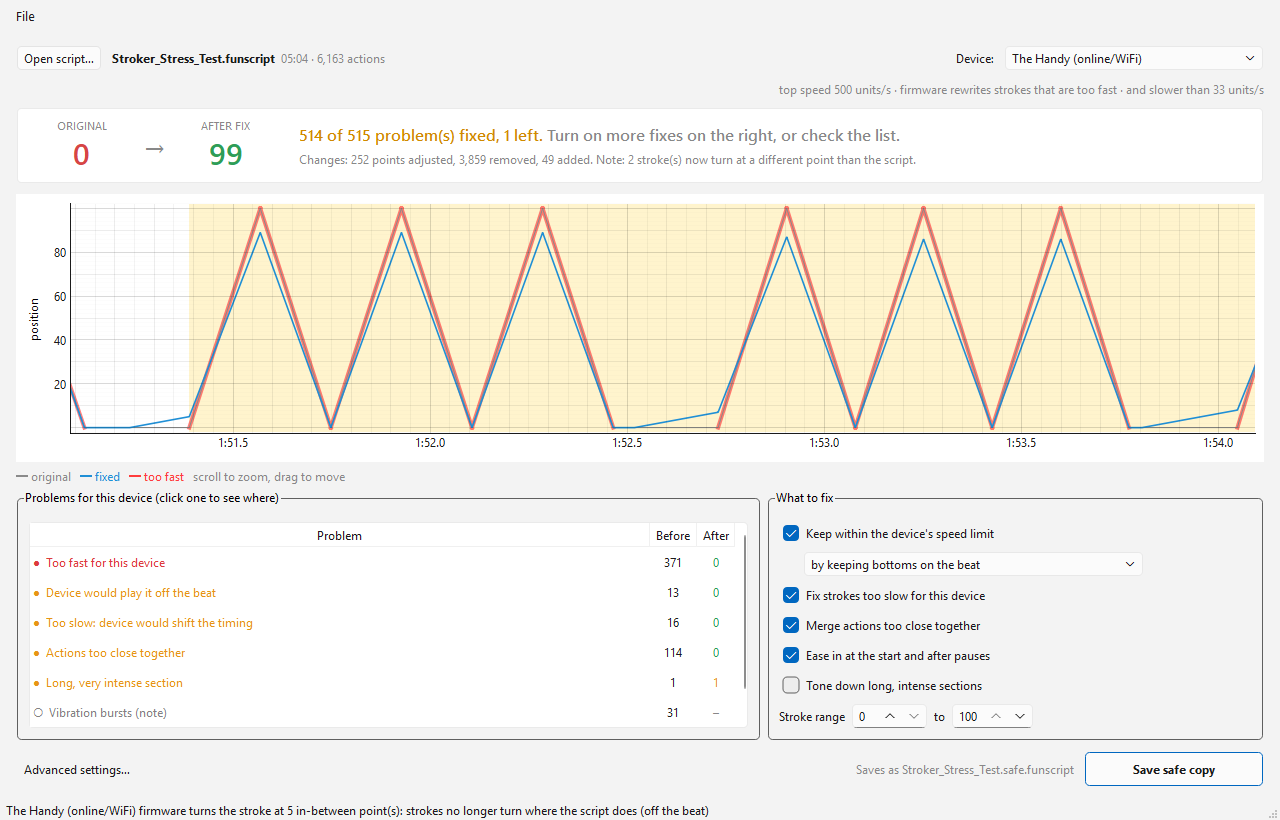
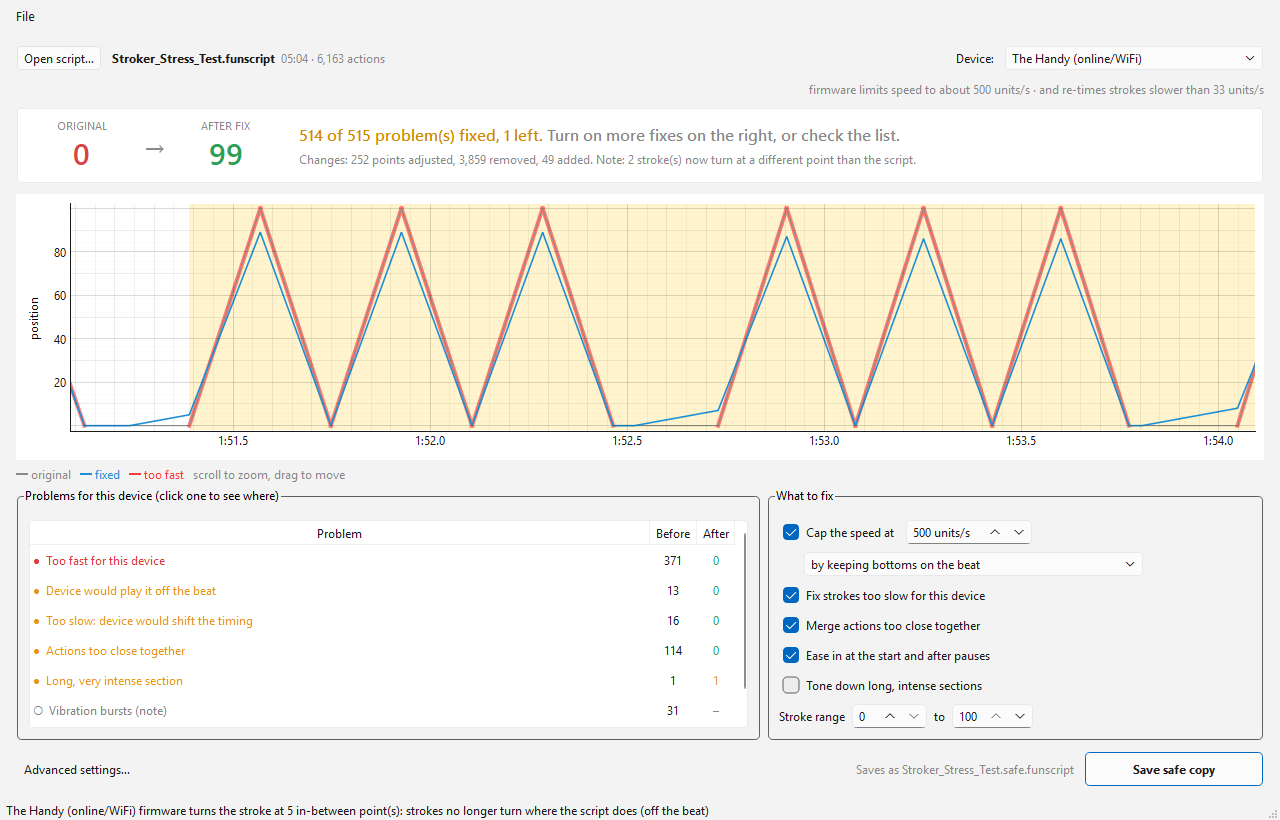
Handy-matched, user-defined speed cap for OSR2/SR6/SSR1; single-axis scope
- OSR2/SR6 and SSR1 default to a 500 u/s cap matched to the well-tested
  Handy, recorded as limit_source="handy_matched"
- GUI: "Cap the speed at ..." spinner lets users set their own cap;
  device line explains firmware vs. self-defined limits
- Multi-axis files open with a single-axis-only warning
- README: scope (single axis, PRs welcome), profile table, roadmap
  trimmed (no measuring, multi-axis, video or live preview; Handy
  firmware tracking linked to the official change logs); screenshots
  recaptured

diff --git a/script_safety/gui/main_window.py b/script_safety/gui/main_window.py
@@ -210,8 +210,18 @@ class FixPanel(QGroupBox):
             c.toggled.connect(lambda v, f=field: self._set(f, v))
             return c
 
-        self.speed = check("speed_limit", "Keep within the device's speed limit",
-                           "Shortens strokes that are faster than the device can move.")
+        self.speed = check("speed_limit", "Cap the speed at",
+                           "Shortens strokes that are faster than the cap. On devices without a firmware limit "
+                           "(OSR2 / SR6 / SSR1) this cap is the only thing protecting you.")
+        self.profile_max = 500.0
+        self.cap = QSpinBox()
+        self.cap.setRange(50, 2000)
+        self.cap.setSingleStep(10)
+        self.cap.setSuffix(" units/s")
+        self.cap.setKeyboardTracking(False)
+        self.cap.setToolTip("Your own speed limit. The default for OSR2 / SR6 / SSR1 matches the Handy (online), "
+                            "whose 500 units/s limit is well tested. Lower is gentler.")
+        self.cap.valueChanged.connect(self._cap_changed)
         self.profile_mode = "preserve_anchor"
         self.anchor = QComboBox()
         for text, data in (("by keeping bottoms on the beat", ("preserve_anchor", "bottom")),
@@ -243,11 +253,15 @@ class FixPanel(QGroupBox):
         rng.addWidget(self.hi)
         rng.addStretch(1)
 
+        cap_row = QHBoxLayout()
+        cap_row.addWidget(self.speed)
+        cap_row.addWidget(self.cap)
+        cap_row.addStretch(1)
         indent = QHBoxLayout()
         indent.addSpacing(24)
         indent.addWidget(self.anchor)
         indent.addStretch(1)
-        g.addWidget(self.speed, 0, 0)
+        g.addLayout(cap_row, 0, 0)
         g.addLayout(indent, 1, 0)
         g.setContentsMargins(10, 14, 10, 10)
         for row, w in enumerate((self.slow, self.interval, self.ease, self.calm), start=2):
@@ -265,6 +279,10 @@ class FixPanel(QGroupBox):
         if any(getattr(opts, k) != v for k, v in changes.items()):
             self.options.set_options(dataclasses.replace(opts, **changes))
 
+    def _cap_changed(self, value):
+        # Equal to the device default -> store "profile default", so switching devices follows each default.
+        self._set("max_speed", None if value == round(self.profile_max) else float(value))
+
     def _limiter_chosen(self, *_):
         mode, anchor = self.anchor.currentData()
         # Store "profile default" when the choice matches the device's own default, so switching
@@ -276,7 +294,8 @@ class FixPanel(QGroupBox):
 
     def sync(self) -> None:
         o = self.options.options()
-        widgets = (self.speed, self.slow, self.interval, self.ease, self.calm, self.anchor, self.lo, self.hi)
+        widgets = (self.speed, self.cap, self.slow, self.interval, self.ease, self.calm, self.anchor, self.lo,
+                   self.hi)
         for w in widgets:
             w.blockSignals(True)
         self.speed.setChecked(o.speed_limit)
@@ -289,6 +308,8 @@ class FixPanel(QGroupBox):
         self.anchor.setCurrentIndex(max(0, next((i for i in range(self.anchor.count())
                                                  if self.anchor.itemData(i) == want), 0)))
         self.anchor.setEnabled(o.speed_limit)
+        self.cap.setValue(round(o.max_speed or self.profile_max))
+        self.cap.setEnabled(o.speed_limit)
         self.lo.setMaximum(int(o.range_max) - 1)
         self.hi.setMinimum(int(o.range_min) + 1)
         self.lo.setValue(int(o.range_min))
@@ -299,6 +320,7 @@ class FixPanel(QGroupBox):
     def set_profile(self, p: DeviceProfile) -> None:
         self.slow.setVisible(p.min_speed > 0)
         self.profile_mode = p.speed_limit_mode
+        self.profile_max = p.max_speed
         self.sync()
 
 
@@ -543,13 +565,19 @@ class MainWindow(QMainWindow):
         if not self.profiles:
             return
         p = self.profile
-        bits = [f"top speed {p.max_speed:.0f} units/s"]
         if p.firmware_limiter:
-            bits.append("firmware rewrites strokes that are too fast")
-        if p.min_speed:
-            bits.append(f"and slower than {p.min_speed:.0f} units/s")
-        if not p.verified:
-            bits.append("these numbers are estimates")
+            bits = [f"firmware limits speed to about {p.max_speed:.0f} units/s"]
+            if p.min_speed:
+                bits.append(f"and re-times strokes slower than {p.min_speed:.0f} units/s")
+        elif p.limit_source == "handy_matched":
+            bits = ["no firmware speed limit: plays every move at full speed",
+                    f"default cap {p.max_speed:.0f} units/s, matched to the Handy (set your own below)"]
+        else:
+            bits = [f"speed limit {p.max_speed:.0f} units/s"]
+        if p.limit_source == "estimate":
+            bits.append("numbers are estimates")
+        elif p.limit_source == "custom":
+            bits.append("your custom profile")
         self.profile_label.setText(" · ".join(bits))
         self.profile_label.setToolTip(p.notes)
         self.fix_panel.set_profile(p)
@@ -572,7 +600,9 @@ class MainWindow(QMainWindow):
         self._fresh_load = True
         self._jump_index.clear()
         p = script.path
-        axis = "" if script.axis == "L0" else f" · {script.axis} axis"
+        axis = "" if script.axis == "L0" else (
+            f" · <span style='color:{OK}'>⚠ {script.axis} axis: this app is built for single-axis (stroke) "
+            f"scripts only</span>")
         self.file_label.setText(f"<b>{p.name}</b> &nbsp;<span style='color:#888'>{_ts(script.duration_ms)[:5]} · "
                                 f"{len(script.actions):,} actions{axis}</span>")
         self.file_label.setToolTip(str(p))

diff --git a/script_safety/profiles.py b/script_safety/profiles.py
@@ -12,6 +12,7 @@ from dataclasses import asdict, dataclass, fields
 from pathlib import Path
 
 SPEED_LIMIT_MODES = ("preserve_anchor", "shorten_start", "shorten_center")
+LIMIT_SOURCES = ("observed", "handy_matched", "estimate", "custom")
 
 
 @dataclass
@@ -29,6 +30,9 @@ class DeviceProfile:
     firmware_limiter: bool = False      # device rewrites over-fast moves itself (shortening toward the start)
     thin_spacing_ms: int = 0            # keep simplified curve points at least this far apart (0 = no constraint)
     verified: bool = False
+    # Where the limits come from: observed (forum testing), handy_matched (a self-chosen safety cap copied
+    # from the well-tested Handy), estimate (placeholder) or custom (user profile file).
+    limit_source: str = "estimate"
     notes: str = ""
 
     def __post_init__(self):
@@ -42,6 +46,8 @@ class DeviceProfile:
         num("sustained_window_ms", 1000, 600000)
         num("min_speed", 0, 200)
         num("thin_spacing_ms", 0, 2000)
+        if self.limit_source not in LIMIT_SOURCES:
+            raise ValueError(f"profile '{self.key}': limit_source must be one of {', '.join(LIMIT_SOURCES)}")
         if self.min_speed >= self.max_speed:
             raise ValueError(f"profile '{self.key}': min_speed must be below max_speed")
         if self.speed_limit_mode not in SPEED_LIMIT_MODES:
@@ -69,7 +75,7 @@ BUILTIN: dict[str, DeviceProfile] = {p.key: p for p in [
     DeviceProfile(
         "handy_online", "The Handy (online/WiFi)",
         max_speed=500, min_interval_ms=20, vibration_ok=True, thin_interpolation=False,
-        speed_limit_mode="preserve_anchor", min_speed=33, firmware_limiter=True, verified=True,
+        speed_limit_mode="preserve_anchor", min_speed=33, firmware_limiter=True, verified=True, limit_source="observed",
         notes="Observed: firmware shortens strokes over ~500 u/s toward their start (moving beat-synced "
               "bottoms) and re-times strokes under ~33 u/s. We pre-limit so the firmware never has to. "
               "Vibrations play well. min_interval is a placeholder."),
@@ -81,14 +87,18 @@ BUILTIN: dict[str, DeviceProfile] = {p.key: p for p in [
               "simplified to fewer, spaced points), moves faster than online mode. Numbers are placeholders."),
     DeviceProfile(
         "osr", "OSR2 / SR6",
-        max_speed=450, min_interval_ms=20, vibration_ok=False, thin_interpolation=False,
+        max_speed=500, min_interval_ms=20, vibration_ok=False, thin_interpolation=False, limit_source="handy_matched",
         speed_limit_mode="shorten_center",
-        notes="Servo-dependent. Vibrations weaker than on other devices. Interpolation fine."),
+        notes="No firmware speed limit: plays every move at full servo speed. The cap is a self-chosen safety "
+              "layer matched to the well-tested Handy (online); set your own in the app. Vibrations weaker "
+              "than on other devices. Interpolation fine."),
     DeviceProfile(
         "ssr1", "SSR1",
-        max_speed=700, min_interval_ms=15, vibration_ok=True, thin_interpolation=False,
+        max_speed=500, min_interval_ms=20, vibration_ok=True, thin_interpolation=False, limit_source="handy_matched",
         speed_limit_mode="shorten_center",
-        notes="Brushless gimbal motor; vibrations and interpolation reported fine."),
+        notes="No firmware speed limit: plays every move at full motor speed. The cap is a self-chosen safety "
+              "layer matched to the well-tested Handy (online); set your own in the app. Vibrations and "
+              "interpolation reported fine."),
     DeviceProfile(
         "launch", "Kiiroo Launch",
         max_speed=400, min_interval_ms=100, vibration_ok=False, thin_interpolation=True,
@@ -126,6 +136,7 @@ def load_profile_file(path: str | Path) -> DeviceProfile:
     base["key"] = d.get("key", Path(path).stem)
     base["name"] = d.get("name", base["key"])
     base["verified"] = d.get("verified", False)
+    base["limit_source"] = d.get("limit_source", "custom")
     return DeviceProfile.from_dict(base)
 
 

diff --git a/tests/test_gui.py b/tests/test_gui.py
@@ -88,3 +88,29 @@ def test_simple_flow(app, tmp_path):
     assert win.save_button.text() == "Save modified copy"
     assert win.output_path().name == "Stroker_Stress_Test.modified.funscript"
     win.close()
+
+
+def test_speed_cap_is_user_defined(app, tmp_path):
+    src = tmp_path / STRESS.name
+    shutil.copy(STRESS, src)
+    win = MainWindow()
+    win.set_profile("osr")
+    assert win.load_file(src)
+    assert win.fix_panel.cap.value() == 500            # matched to the Handy by default
+    assert "matched to the Handy" in win.profile_label.text()
+    win.fix_panel.cap.setValue(300)
+    assert win.options.options().max_speed == 300
+    win.recompute()
+    assert any("under 300 u/s" in s for _, s in win.result.steps)
+    win.fix_panel.cap.setValue(500)                    # back to the device default
+    assert win.options.options().max_speed is None
+    win.close()
+
+
+def test_multi_axis_file_warns(app, tmp_path):
+    src = tmp_path / "video.roll.funscript"
+    shutil.copy(STRESS, src)
+    win = MainWindow()
+    assert win.load_file(src)
+    assert "single-axis" in win.file_label.text()
+    win.close()

diff --git a/script_safety/cli.py b/script_safety/cli.py
@@ -68,7 +68,8 @@ def _ts(ms: int) -> str:
 
 def cmd_profiles(args) -> int:
     for p in all_profiles().values():
-        flag = "" if p.verified else "  (unverified)"
+        flag = {"observed": "", "handy_matched": "  (cap matched to the Handy)", "estimate": "  (estimate)",
+                "custom": "  (custom)"}[p.limit_source]
         print(f"{p.key:14} {p.name:26} max {p.max_speed:>4.0f} u/s, min interval {p.min_interval_ms:>3} ms, "
               f"limit mode {p.speed_limit_mode}{flag}")
     return 0

diff --git a/README.md b/README.md
@@ -4,7 +4,7 @@ A local, offline desktop app that checks a `.funscript` **before you play it**, 
 
 ![Script Safety Manager with the stress-test script loaded for an OSR2 / SR6](docs/images/02_osr_overview.png)
 
-> Status: working and tested on Windows. Device limits are still mostly estimates (see [What's next](#whats-next)).
+> Status: working and tested on Windows. **Scope: single-axis (stroke) scripts only.** Multi-axis support is out of scope for now, but pull requests are welcome.
 
 ## Why this exists
 
@@ -12,7 +12,7 @@ More and more scripts are being released by new authors without being tested on 
 
 **The Handy protects you by itself.** Its firmware caps speed (around 500 units/s in online mode) and rewrites anything faster before playing it. That behaviour has been tested thoroughly by forum members. For the Handy this app is mostly about *playing the script as intended*: the firmware's limiter can move beat-synced strokes off the beat, and it re-times very slow strokes.
 
-**OSR2, SR6 and SSR1 do not.** They play every command as fast as their servos or motor can move. There is no firmware cap. A script with a 1 ms gap or a 17,000 units/s jump is executed at the device's top speed, so a careless or broken script becomes a full-power slam. For these devices this app is the safety layer: it finds those moves and caps them at a speed you choose before the device ever sees them.
+**OSR2, SR6 and SSR1 do not.** They play every command as fast as their servos or motor can move. There is no firmware cap. A script with a 1 ms gap or a 17,000 units/s jump is executed at the device's top speed, so a careless or broken script becomes a full-power slam. For these devices this app is the safety layer: it finds those moves and caps them before the device ever sees them. The default cap is **500 units/s, matched to the Handy**, because that limit has been tested by the community. You can set your own.
 
 | | The Handy | OSR2 / SR6 / SSR1 |
 |---|---|---|
@@ -52,10 +52,12 @@ You can also open a script directly: `python -m script_safety.gui "path/to/video
    - Grey is the original, blue is the fixed copy, red marks moves that are too fast.
    - Scroll to zoom and drag to move.
 5. **Check the Problems list.** It names each kind of problem in plain words, with how many there are **before** and **after** fixing. Click one to zoom the graph to it (highlighted in yellow). Click again for the next one.
-6. **Choose what to fix** on the right. The defaults are the safe choice. You can also pick how a too-fast stroke gets shortened:
-   - **by keeping bottoms on the beat** (or tops): beat-synced points stay exactly where the scripter put them.
-   - **by shortening evenly around the middle.**
-   - **by shortening toward the start**, the way the Handy firmware does.
+6. **Choose what to fix** on the right. The defaults are the safe choice.
+   - **Cap the speed at …** is your own speed limit. For OSR2 / SR6 / SSR1 it starts at 500 units/s (matched to the Handy); lower is gentler.
+   - You can also pick how a too-fast stroke gets shortened:
+     - **by keeping bottoms on the beat** (or tops): beat-synced points stay exactly where the scripter put them.
+     - **by shortening evenly around the middle.**
+     - **by shortening toward the start**, the way the Handy firmware does.
 7. **Save safe copy.** It writes `NAME.safe.funscript` next to the original. The original is never changed. If you turn off the speed limit, the button and file name change to **modified** instead of **safe**.
 
 **Advanced settings…** (bottom left) has every option, the full list of problems with exact times, and a log of what was changed.
@@ -66,7 +68,7 @@ These screenshots use `Stroker_Stress_Test.funscript`, the community stress-test
 
 ### Too fast for this device: the main danger on OSR2 / SR6 / SSR1
 
-On an OSR the stress test has **490 places** where moves exceed the 450 units/s cap, peaking at **17,000 units/s** (the bottom-left status line shows the peak). An OSR would try to play every red segment at full servo speed. The blue line is the fixed copy: the same shape, never faster than the cap. After fixing: **0** too-fast moves.
+On an OSR the stress test has **371 places** where moves exceed the 500 units/s cap, peaking at **17,000 units/s** (the bottom-left status line shows the peak). An OSR would try to play every red segment at full servo speed. The blue line is the fixed copy: the same shape, never faster than the cap. After fixing: **0** too-fast moves.
 
 ![Too-fast moves on an OSR2 / SR6, before (grey and red) and after (blue)](docs/images/03_osr_too_fast.png)
 
@@ -92,7 +94,7 @@ The Handy's firmware re-times strokes slower than about 33 units/s, so downstrok
 
 ### Everything on: all problems solved
 
-With every fix switched on, including **Tone down long, intense sections**, the stress test goes from **0 to 100** on every device profile. All 605 problems are solved for OSR2 / SR6.
+With every fix switched on, including **Tone down long, intense sections**, the stress test goes from **0 to 100** on every device profile. All 486 problems are solved for OSR2 / SR6.
 
 ![All problems solved for OSR2 / SR6](docs/images/08_osr_all_fixed.png)
 
@@ -106,9 +108,9 @@ With every fix switched on, including **Tone down long, intense sections**, the 
 
 | Problem (as shown in the app) | What it means | Fix |
 |---|---|---|
-| **Too fast for this device** | Moves above the device's speed limit. Dangerous on OSR2 / SR6 / SSR1, which play them at full power | Keep within the device's speed limit |
+| **Too fast for this device** | Moves above the speed cap. Dangerous on OSR2 / SR6 / SSR1, which play them at full power | Cap the speed at … |
 | **Actions too close together** | Gaps shorter than the device can follow: jolts on servo devices, skipped actions on the Handy over Bluetooth | Merge actions too close together |
-| **Starts at full speed / Restarts at full speed after a pause** | The device jumps from rest straight into fast strokes | Ease in at the start and after pauses |
+| **Starts at full speed** / **Restarts at full speed after a pause** | The device jumps from rest straight into fast strokes | Ease in at the start and after pauses |
 | **Device would play it off the beat** | (Handy online) the firmware's limiter would make strokes turn where the script doesn't | Keep bottoms (or tops) on the beat |
 | **Too slow: device would shift the timing** | (Handy online) the firmware would re-time these strokes | Fix strokes too slow for this device |
 | **Long, very intense section** | High average speed for 30 s or more: motor heat and fatigue, most relevant on devices that never slow down by themselves | Tone down long, intense sections (optional) |
@@ -126,16 +128,16 @@ Because OSR-type devices don't limit themselves, check every untested script, ev
 
 ## Device profiles
 
-| Device | Speed limit | Notes |
+| Device | Speed limit | Where the number comes from |
 |---|---|---|
-| The Handy (online/WiFi) | 500 u/s | Speed and slow limits observed in the threads; other values placeholders |
+| The Handy (online/WiFi) | 500 u/s | Its own firmware limit, observed by forum members (also its ~33 u/s slow limit) |
 | The Handy (Bluetooth) | 550 u/s | Estimate |
-| OSR2 / SR6 | 450 u/s | Estimate. **A safety cap, not the servo's top speed** |
-| SSR1 | 700 u/s | Estimate. **A safety cap, not the motor's top speed** |
+| OSR2 / SR6 | 500 u/s | **Self-defined safety cap**, matched to the Handy |
+| SSR1 | 500 u/s | **Self-defined safety cap**, matched to the Handy |
 | Kiiroo Launch / Keon, Vorze A10 Piston | 350–400 u/s | Estimates |
 | Generic / conservative | 400 u/s | For unknown hardware |
 
-For the Handy, the speed limit reflects what its firmware enforces anyway. For OSR2 / SR6 / SSR1 nothing enforces it except this app, so treat it as your own comfort and safety cap. You can set a lower one under **Advanced settings… › max speed**, or with a custom profile.
+OSR2, SR6 and SSR1 have no firmware limit, so there is no "real" number to measure that would make them safe. The cap is a choice. Because the goal is a safety layer, the default copies the Handy's 500 units/s, which the community has tested thoroughly. Change it at any time with **Cap the speed at …** in the app. A lower cap is gentler, a higher one is closer to the original script.
 
 **Custom profiles:** put a JSON file in `%USERPROFILE%\.script_safety_manager\profiles\`, then choose **File › Reload profiles**. Fields you leave out come from `base`:
 
@@ -150,12 +152,16 @@ For the Handy, the speed limit reflects what its firmware enforces anyway. For O
 
 Values are range-checked when loaded, so a bad profile can't switch the limits off.
 
+## Scope
+
+This app is for **single-axis (stroke) scripts**. Multi-axis files (`.roll`, `.twist`, `.pitch`, … for the SR6 and SSR1) open with a warning and are checked as if they were a stroke, which isn't meaningful. Multi-axis support isn't planned, because I don't own a multi-axis device to test with. Pull requests and contributions are welcome.
+
 ## What's been done
 
 - **Research:** collected how the Handy (online and Bluetooth), OSR2/SR6 and SSR1 handle too-fast, too-slow and dense scripts from the EroScripts threads, and compared with existing tools (funscript.io has modifiers but no device-specific checks).
 - **Checks:** too fast, too close together, hard starts and restarts, off-beat (by simulating the Handy firmware), too slow for the Handy, long intense sections, vibration bursts, sharp direction changes, and file problems. Each comes with a 0–100 score per device.
-- **Fixes:** speed limit with three shortening methods, including keeping bottoms or tops on the beat; merging close actions; ease-in; slow-stroke fix for the Handy; curve simplification for the Handy over Bluetooth; stroke range and invert; intensity cap.
-- **Device profiles** for the Handy (online and Bluetooth), OSR2/SR6, SSR1, Launch, Keon, A10 Piston, a generic profile, and your own custom profiles.
+- **Fixes:** a speed cap with three shortening methods, including keeping bottoms or tops on the beat; merging close actions; ease-in; slow-stroke fix for the Handy; curve simplification for the Handy over Bluetooth; stroke range and invert; intensity cap.
+- **Device profiles** for the Handy (online and Bluetooth), OSR2/SR6 and SSR1 (with a self-defined, Handy-matched cap), Launch, Keon, A10 Piston, a generic profile, and your own custom profiles.
 - **Security hardening:**
   - broken or hostile files are refused;
   - bad profile values are rejected;
@@ -163,24 +169,21 @@ Values are range-checked when loaded, so a bad profile can't switch the limits o
   - the original file is never overwritten;
   - nothing is sent over the network;
   - saved files record what was changed, but no personal information.
-- **Desktop app:** the one-screen workflow above, tested on Windows with the stress-test script.
-- **Tests:** 52 automated tests, including hostile inputs, the cases from the threads, and a check that every device profile reaches zero problems on the stress test with all fixes on.
+- **Desktop app:** the one-screen workflow above, with your own speed cap, tested on Windows with the stress-test script.
+- **Tests:** 54 automated tests, including hostile inputs, the cases from the threads, and a check that every device profile reaches zero problems on the stress test with all fixes on.
 
 ## What's next
 
-In order of priority:
+1. **Windows installer:** a single `.exe`, so users don't need Python.
+2. **Batch mode in the app:** check and fix a whole folder at once, with a summary of which scripts are unsafe.
+3. **Profile editor in the app**, and an easy way to share profiles.
+4. **Follow Handy firmware changes:** the Handy's official [firmware change logs](https://intercom.help/ohdoki/en/collections/10608301-change-logs) list each release. Add the firmware version a Handy profile was based on, and update its limits when a release changes them.
 
-1. **Measure real device limits, starting with OSR2 / SR6 / SSR1.** For these devices the app is the only protection, but their limits are still estimates. Play the stress test with the stroke length turned down, film it, and turn the results into verified profiles.
-2. **Multi-axis scripts for the SR6 and SSR1.** Twist, roll and pitch files are checked one at a time today. They should load together, with a speed limit for each axis.
-3. **Windows installer:** a single `.exe`, so users don't need Python.
-4. **Batch mode in the app:** check and fix a whole folder at once, with a summary of which scripts are unsafe.
-5. **Profile editor in the app**, and an easy way to share measured profiles.
-6. **Handy firmware version** in the profile, since its limits can change between versions.
-7. **Later:** a video-synced preview, and a live preview on a connected device through Intiface.
+Not planned: multi-axis scripts (see [Scope](#scope)), measuring OSR2 / SR6 / SSR1 limits (the cap is self-defined), video preview and live device preview.
 
 ## Safety note
 
-This app lowers the risk from badly made scripts, but it can't know your device's condition, its settings, or your limits, and most profile numbers are estimates. Especially on OSR2 / SR6 / SSR1: start with the device's own stroke length and speed turned down, keep its stop control or power within reach, and stop at once if anything feels wrong.
+This app lowers the risk from badly made scripts, but it can't know your device's condition, its settings, or your limits, and the speed cap is a choice, not a guarantee. Especially on OSR2 / SR6 / SSR1: start with the device's own stroke length and speed turned down, keep its stop control or power within reach, and stop at once if anything feels wrong.
 
 ## For developers
 
